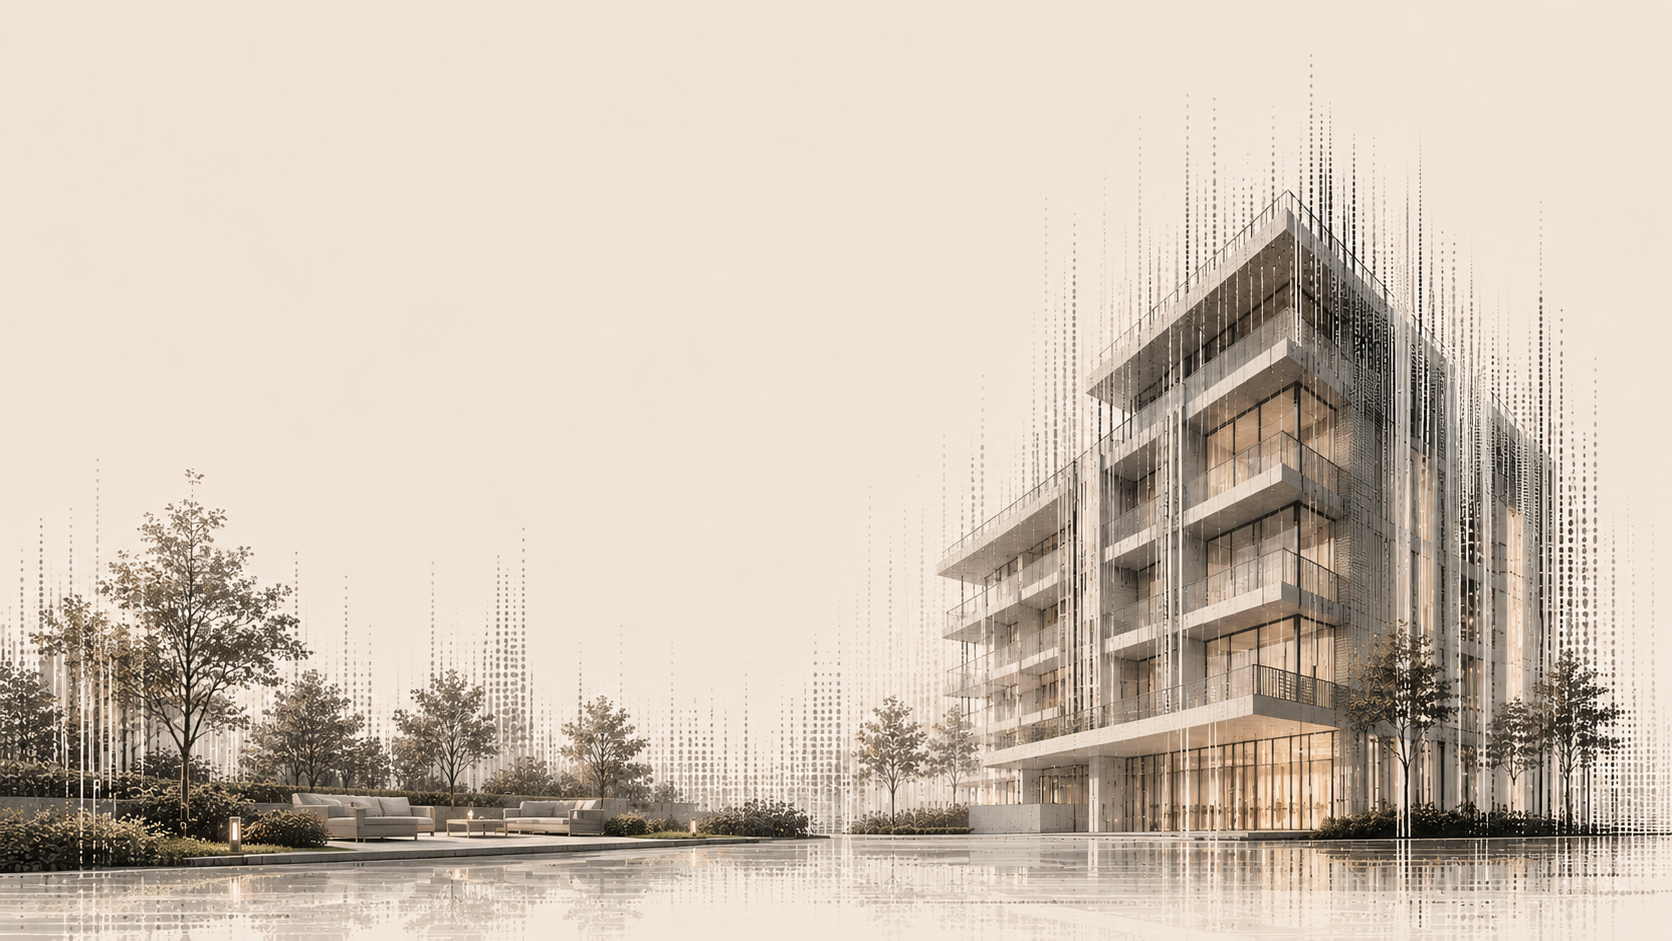
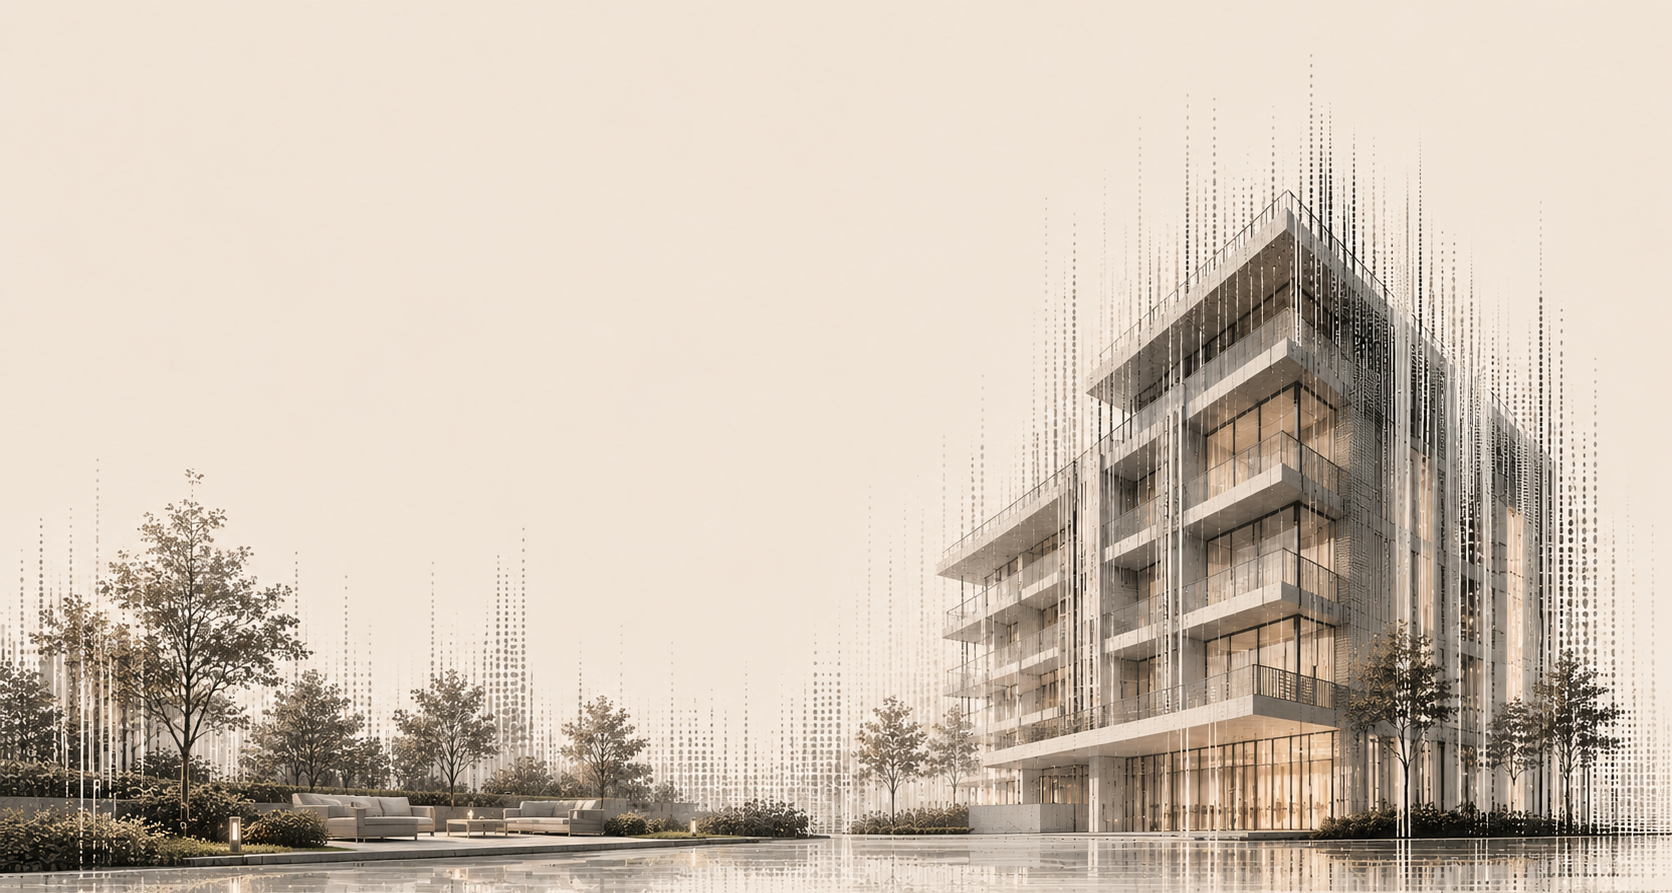
Crop 5% from bottom of footer background image and reset to full-width object-cover object-bottom

Changed region(s): [[0.0, 0.1512, 1.0, 1.0]]

diff --git a/luxury-scroll-site/src/components/layout/Footer.tsx b/luxury-scroll-site/src/components/layout/Footer.tsx
@@ -45,7 +45,7 @@ export function Footer() {
           alt="Landscape Sketch Background"
           fill
           sizes="100vw"
-          className="object-contain object-right-bottom"
+          className="object-cover object-bottom"
           priority
         />
       </div>